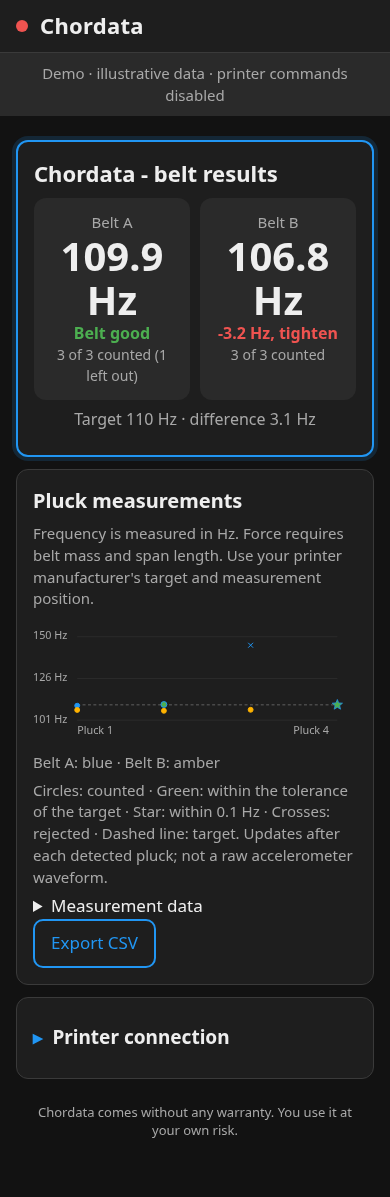
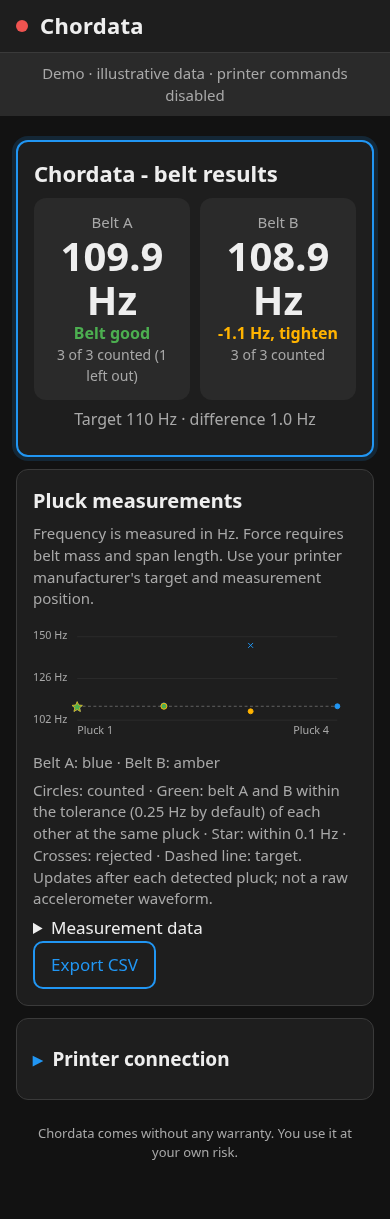
Chart: green and stars for belt A and B matching, not the target
At the same pluck number, counted plucks of belt A and B within the
tolerance of each other (0.25 Hz by default) are drawn green, within
0.1 Hz as stars. The demo data now shows both.

diff --git a/web/index.html b/web/index.html
@@ -295,7 +295,7 @@ summary:focus-visible { outline:3px solid var(--primary); outline-offset:2px; }
   </section>
 <section class="card" id="measurePanel" hidden><h2>Pluck measurements</h2>
 <p class="help">Frequency is measured in Hz. Force requires belt mass and span length. Use your printer manufacturer's target and measurement position.</p>
-<div id="trend"></div><p class="small muted">Circles: counted · Green: within the tolerance of the target · Star: within 0.1 Hz · Crosses: rejected · Dashed line: target. Updates after each detected pluck; not a raw accelerometer waveform.</p>
+<div id="trend"></div><p class="small muted">Circles: counted · Green: belt A and B within the tolerance (0.25 Hz by default) of each other at the same pluck · Star: within 0.1 Hz · Crosses: rejected · Dashed line: target. Updates after each detected pluck; not a raw accelerometer waveform.</p>
 <details><summary>Measurement data</summary><div class="measurements"><table><thead><tr><th scope="col">Belt</th><th scope="col">Pluck</th><th scope="col">Hz</th><th scope="col">Result</th><th scope="col">Reason</th></tr></thead><tbody id="measureRows"></tbody></table></div></details>
 <button type="button" id="exportBtn">Export CSV</button></section>
 <details class="card" id="authPanel"><summary>Printer connection</summary><form id="authForm"><div class="field"><label for="moonrakerKey">Moonraker API key</label><input id="moonrakerKey" type="password" autocomplete="off"></div><p class="help">Held in memory for this page only. Reload to forget it.</p><button type="submit">Authenticate</button></form></details>
@@ -919,8 +919,9 @@ function renderMeasurements() {
   const y=f=>200-(f-low)/(high-low)*170, x=i=>90+(i-1)/(maxN-1)*530;
   for(let n=0;n<3;n++) { const f=low+(high-low)*n/2; add('line',{x1:90,y1:y(f),x2:620,y2:y(f),stroke:'var(--line)'}); add('text',{x:0,y:y(f)+5},f.toFixed(0)+' Hz'); }
   if(target>0)add('line',{x1:90,y1:y(target),x2:620,y2:y(target),stroke:'var(--muted)','stroke-dasharray':'6 5'});
-  for(const r of rows) { if(r.freq==null || !Number.isFinite(Number(r.freq)))continue; const px=x(r.index),py=y(Number(r.freq)),color=r.belt==='A'?'var(--primary)':'var(--warn)',attrs={stroke:color,'stroke-width':2}; const off=target>0?Math.abs(Number(r.freq)-target):Infinity;
-    // on target: within 0.1 Hz a green star, within the tolerance a green dot (ringed in the belt's colour)
+  for(const r of rows) { if(r.freq==null || !Number.isFinite(Number(r.freq)))continue; const px=x(r.index),py=y(Number(r.freq)),color=r.belt==='A'?'var(--primary)':'var(--warn)',attrs={stroke:color,'stroke-width':2}; const mate=rows.find(m=>m.belt!==r.belt && m.index===r.index && m.ok && m.freq!=null && Number.isFinite(Number(m.freq))), off=mate?Math.abs(Number(r.freq)-Number(mate.freq)):Infinity;
+    // belt A and B matched at the same pluck number: within 0.1 Hz a green star, within the
+    // tolerance a green dot (ringed in the belt's colour)
     if(r.ok && off<STAR_HZ) add('polygon',{...attrs,points:star(px,py,11),fill:'var(--ok)','stroke-width':1.5});
     else if(r.ok && off<=tol) add('circle',{...attrs,cx:px,cy:py,r:6,fill:'var(--ok)'});
     else if(r.ok)add('circle',{...attrs,cx:px,cy:py,r:5,fill:color}); else add('path',{...attrs,d:`M${px-5},${py-5}l10,10m0,-10l-10,10`,fill:'none'}); }
@@ -941,7 +942,7 @@ function init() {
   $("startBtn").onclick = () => runGcode("CHORDATA").catch(() => {});
   render();
   if (demo) {
-    S.chordata={state:"idle",belts:{target:110,plucks:3,A:{freq:109.9,used:3,heard:4,plucks:[{freq:109.5,ok:true},{freq:110.2,ok:true},{freq:145,ok:false,why:"Off target"},{freq:110,ok:true}]},B:{freq:106.8,used:3,heard:3,plucks:[{freq:107,ok:true},{freq:106.5,ok:true},{freq:107.1,ok:true}]}},tools:{}};
+    S.chordata={state:"idle",belts:{target:110,plucks:3,A:{freq:109.9,used:3,heard:4,plucks:[{freq:109.5,ok:true},{freq:110.2,ok:true},{freq:145,ok:false,why:"Off target"},{freq:110,ok:true}]},B:{freq:108.9,used:3,heard:3,plucks:[{freq:109.55,ok:true},{freq:110,ok:true},{freq:107.1,ok:true}]}},tools:{}};
     prompt={title:"Chordata - belt results",items:[],footer:[]}; promptSeq++; render();
     $("connBanner").textContent="Demo · illustrative data · printer commands disabled";
     $("authForm").hidden=true;
